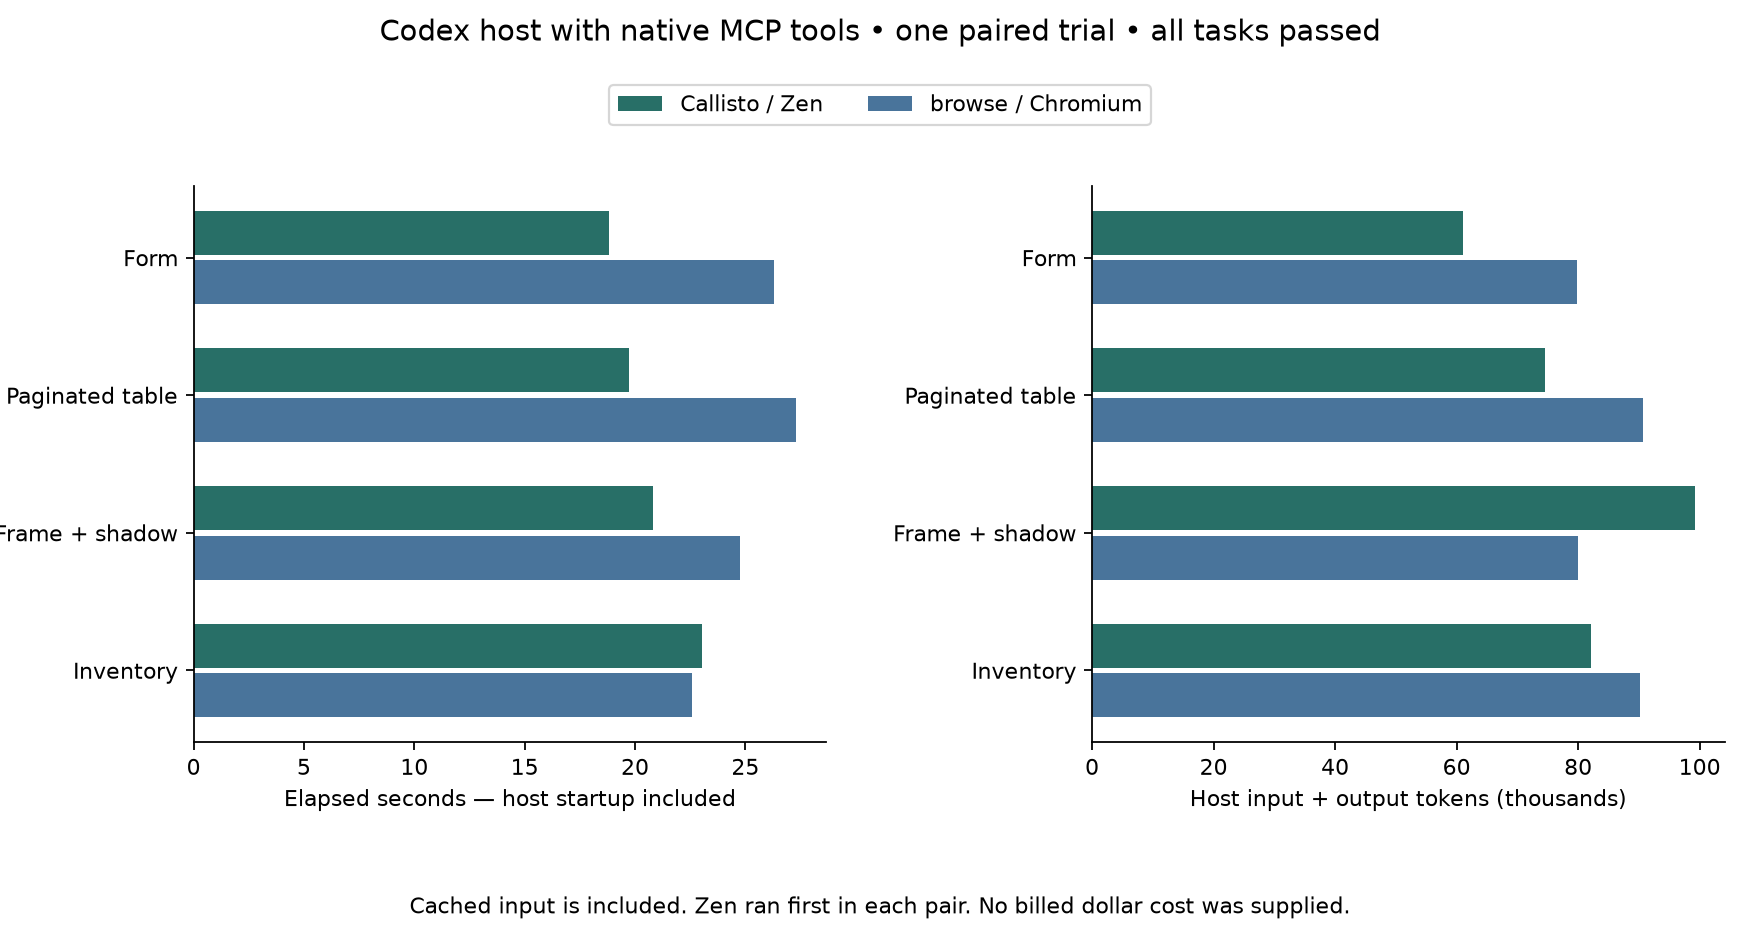
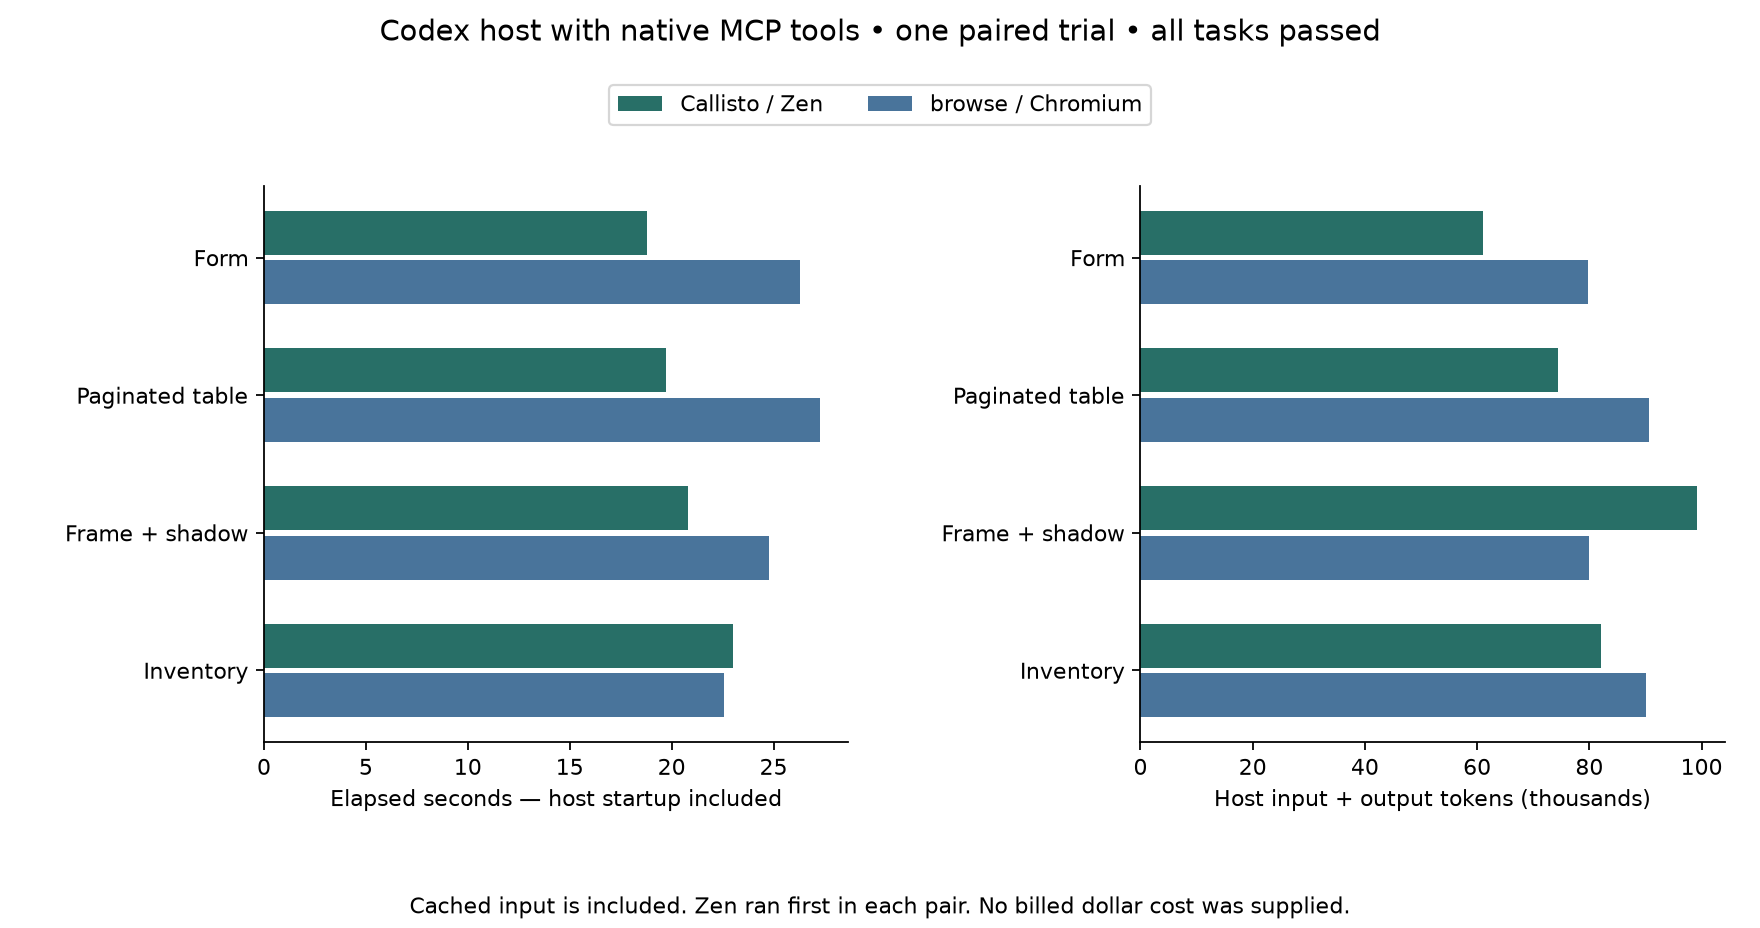
docs(bench): keep figure labels within export bounds

diff --git a/eval/reports/host-agent-2026-11-15/plot.py b/eval/reports/host-agent-2026-11-15/plot.py
@@ -18,7 +18,7 @@ for ax, title in zip(axes, ['Elapsed seconds — host startup included', 'Host i
     ax.invert_yaxis()
     ax.set_xlabel(title)
     ax.spines[['top', 'right']].set_visible(False)
-fig.subplots_adjust(top=.80, bottom=.20, left=.11, right=.98, wspace=.42)
+fig.subplots_adjust(top=.80, bottom=.20, left=.15, right=.98, wspace=.50)
 fig.legend(*axes[0].get_legend_handles_labels(), loc='upper center', bbox_to_anchor=(.5, .92), ncol=2)
 fig.suptitle('Codex host with native MCP tools • one paired trial • all tasks passed', fontsize=13)
 fig.supxlabel('Cached input is included. Zen ran first in each pair. No billed dollar cost was supplied.', fontsize=10)
